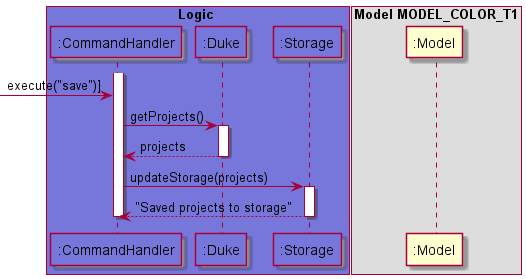
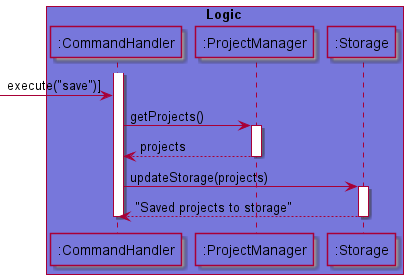
Refactor: Load and Save and Update diags

diff --git a/src/main/java/seedu/duke/project/ProjectManager.java b/src/main/java/seedu/duke/project/ProjectManager.java
@@ -22,7 +22,15 @@ public class ProjectManager {
     public static final String MESSAGE_FOR_PRINTING_ALL_PROJECT_RESOURCES =
             "Here is the list of all project(s) and it's resource(s)!" + NEW_LINE;
 
-    public static ArrayList<Project> projects;
+    private static ArrayList<Project> projects;
+
+    public static ArrayList<Project> getProjects() {
+        return projects;
+    }
+
+    public static void setProjects(ArrayList<Project> projectsToUpdate) {
+        projects = projectsToUpdate;
+    }
 
     public static void getAllProjectsAndResourcesMatchingKeyword(String keyword, ArrayList<Project> projects) {
         int projectCount = 0;

diff --git a/src/main/java/seedu/duke/command/CommandHandler.java b/src/main/java/seedu/duke/command/CommandHandler.java
@@ -96,10 +96,10 @@ public class CommandHandler {
             listAllCommands();
             break;
         case SAVE_COMMAND:
-            Storage.updateStorage(ProjectManager.projects);
+            Storage.updateStorage(ProjectManager.getProjects());
             break;
         case LOAD_COMMAND:
-            ProjectManager.projects = Storage.readFromStorage();
+            ProjectManager.setProjects(Storage.readFromStorage());
             break;
         default:
             promptUserInvalidInput();

diff --git a/src/main/java/seedu/duke/storage/Storage.java b/src/main/java/seedu/duke/storage/Storage.java
@@ -106,7 +106,7 @@ public class Storage {
 
     private static void updateProjects() {
 
-        ArrayList<Project> dukeProjects = ProjectManager.projects;
+        ArrayList<Project> dukeProjects = ProjectManager.getProjects();
 
         for (Project project: dukeProjects) {
             if (projects.contains(project)) {
